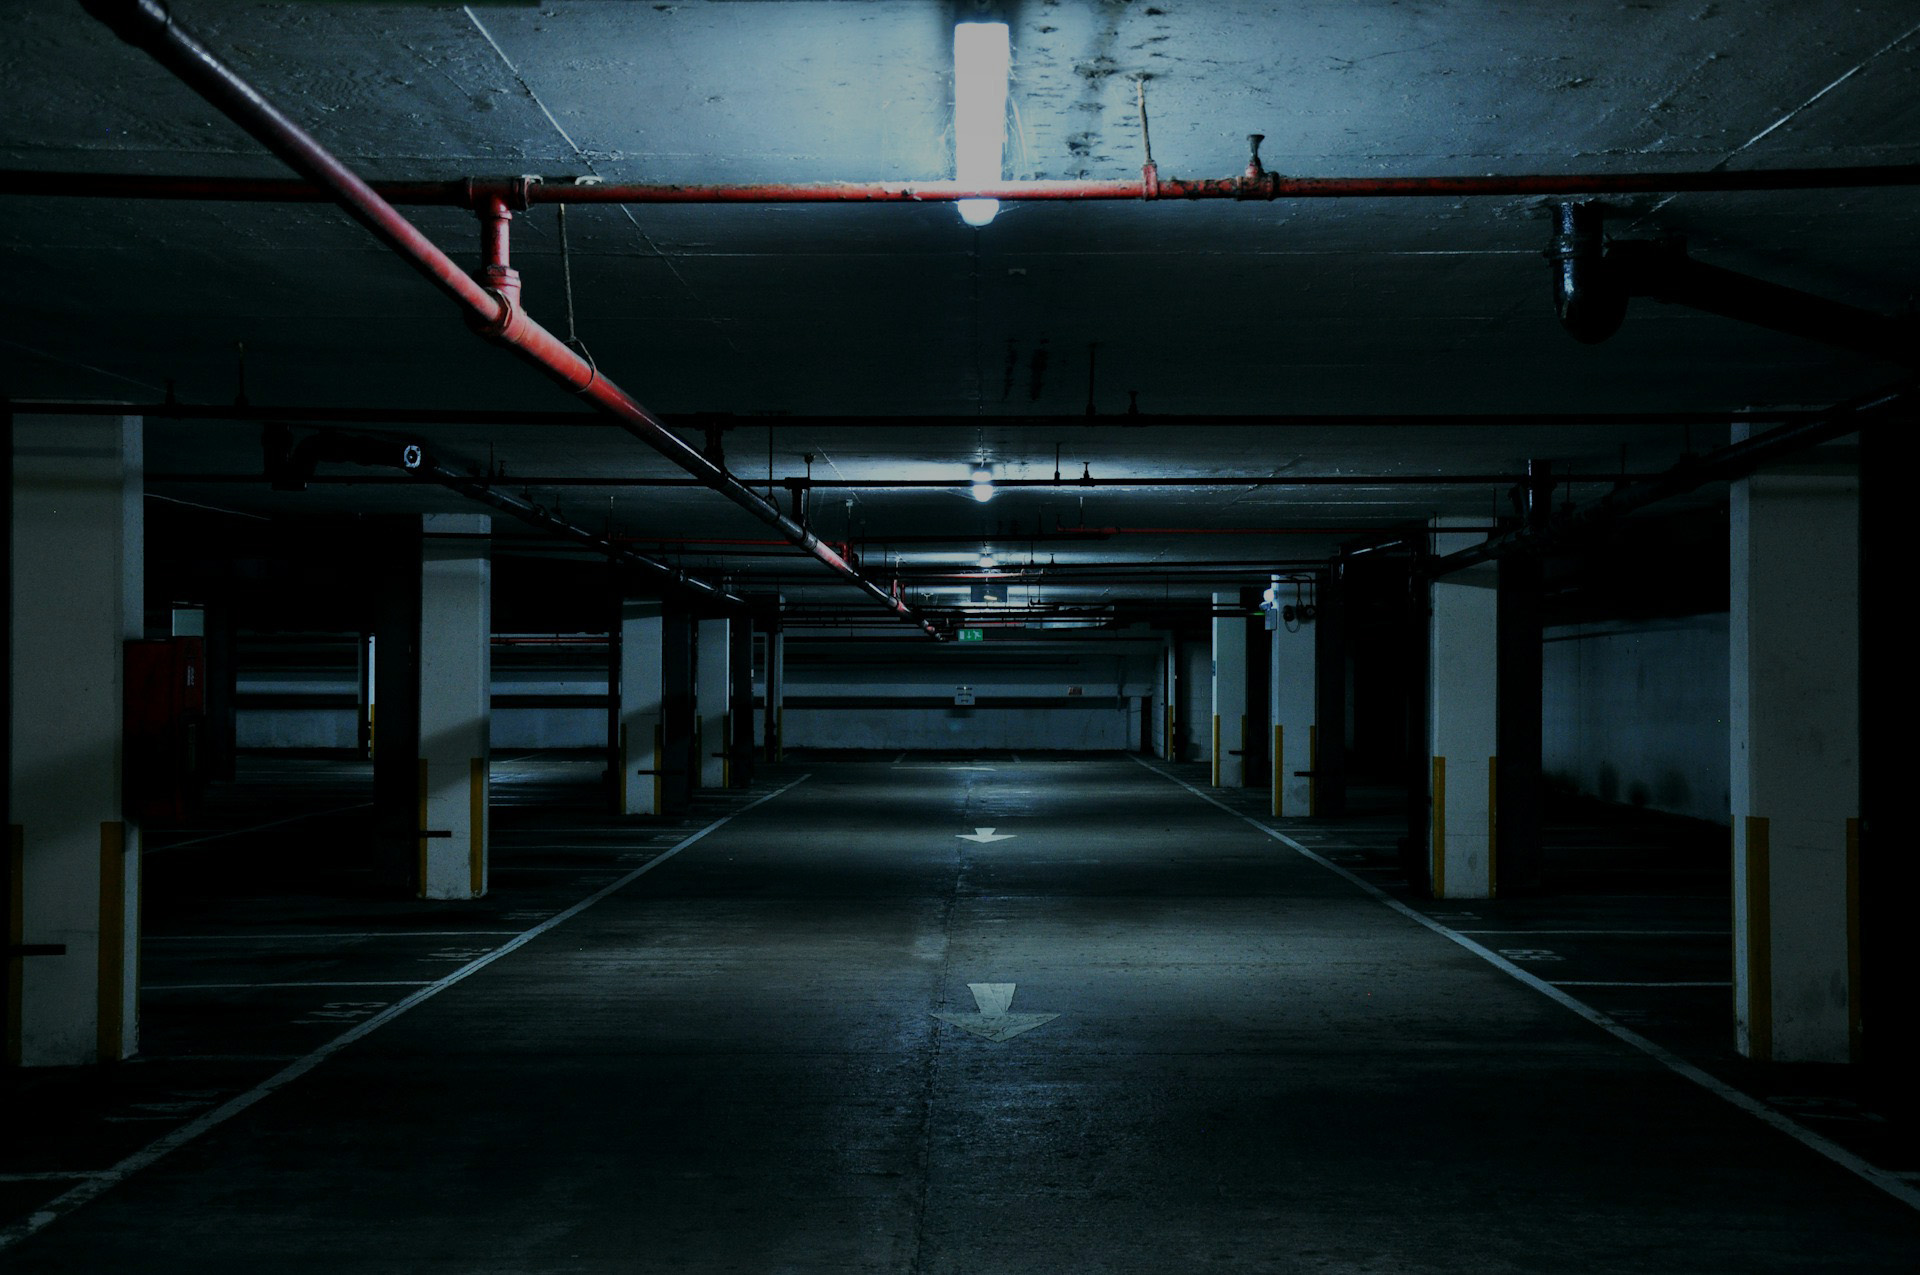
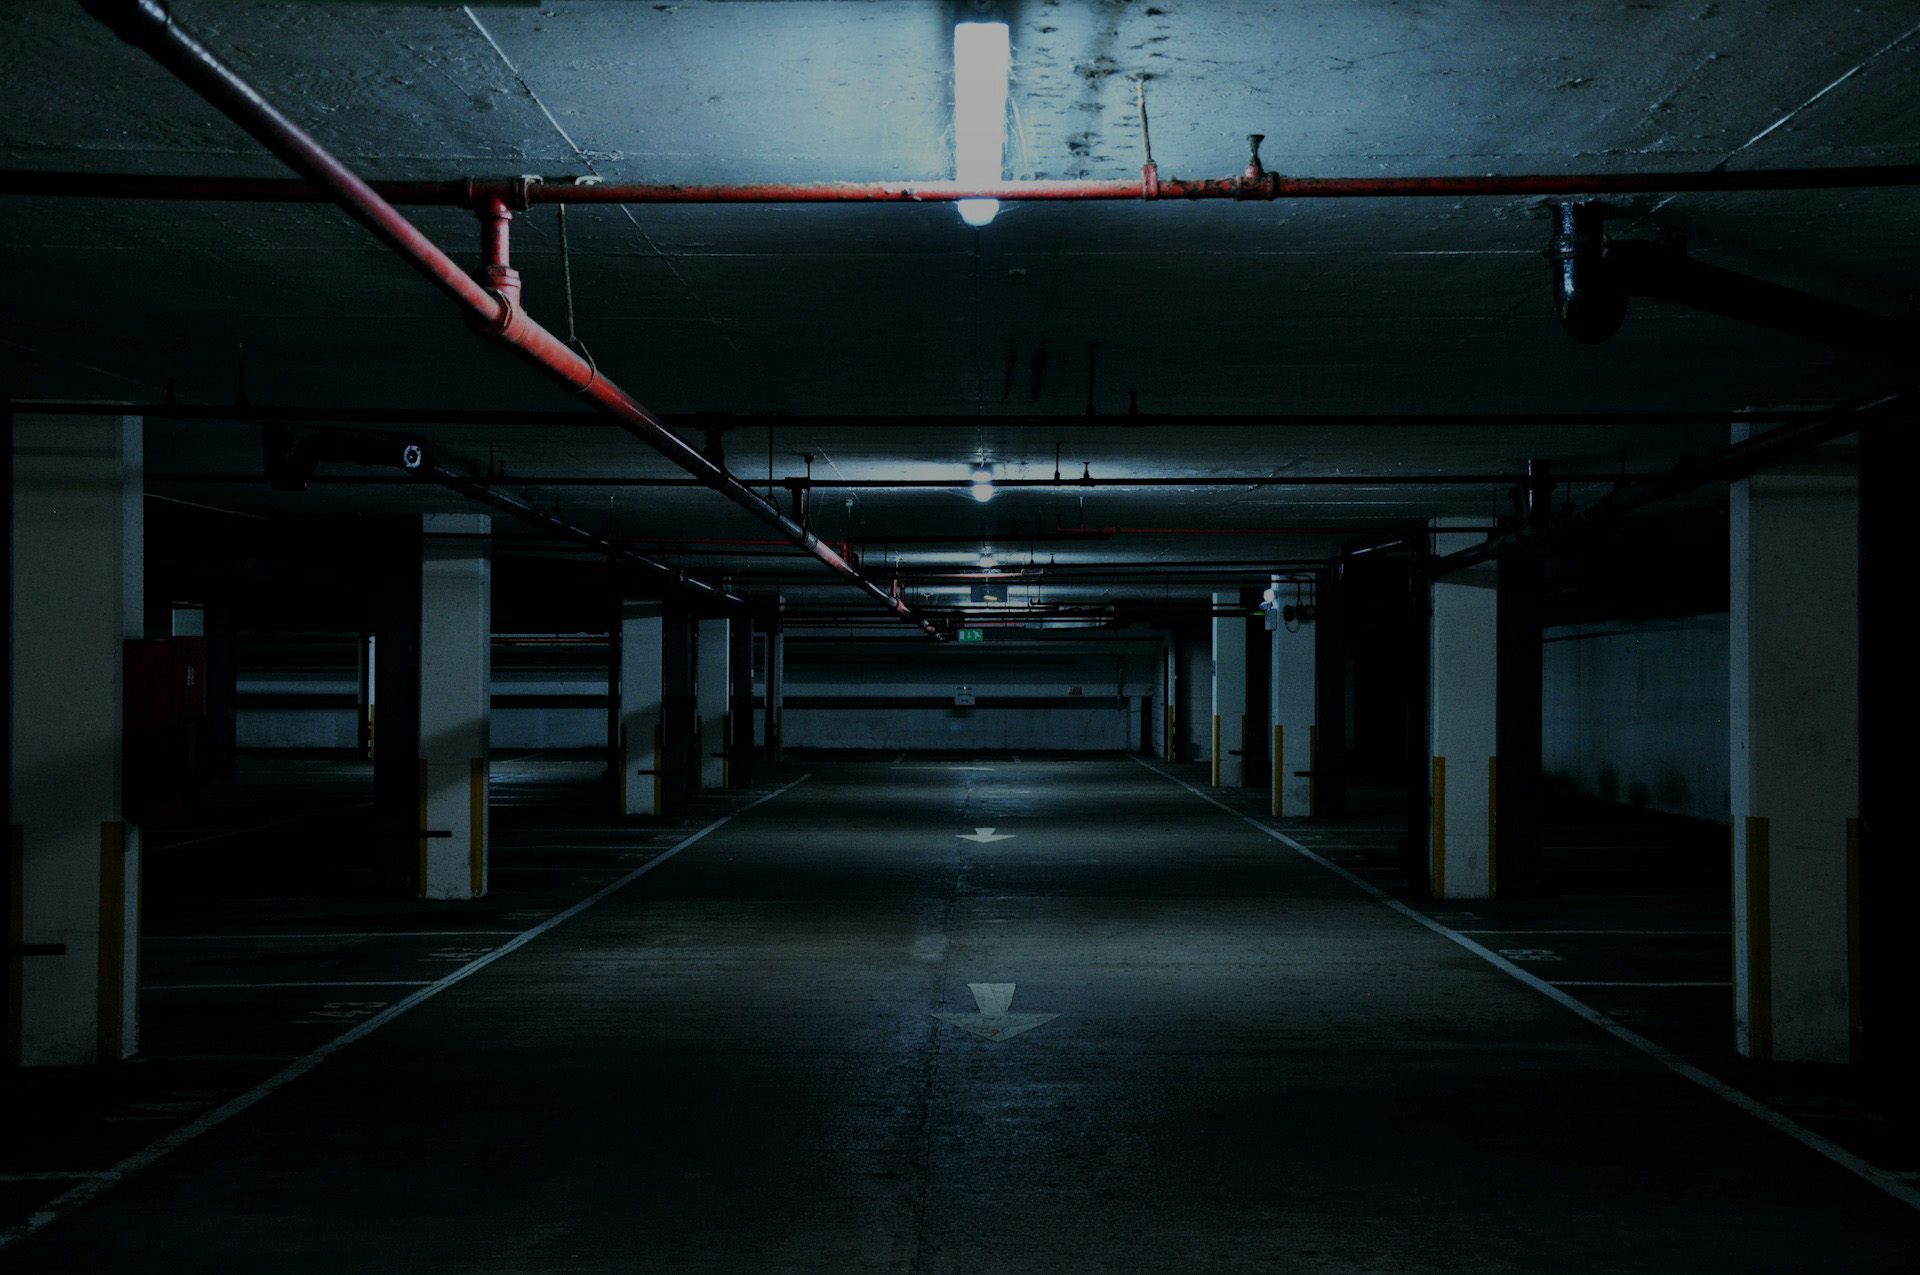
update

diff --git a/projects/photography-portfolio-site/gallery.html b/projects/photography-portfolio-site/gallery.html
@@ -51,6 +51,7 @@
                         <img src="images/urban-17c5x.jpg" alt="street">
                         <img src="images/urban-14h7y.jpg" alt="street">
                         <img src="images/urban-15r57.jpg" alt="street">
+                        <img src="images/urban-16ij4.jpg" alt="street">
                     </div>
                 </div>
             </div>

diff --git a/projects/photography-portfolio-site/css/style.css b/projects/photography-portfolio-site/css/style.css
@@ -173,6 +173,7 @@ body {
     text-align: center;
     margin: 38px;
     background-color: #111111;
+    box-shadow: inset 0px 0px 16px 4px rgb(0, 0, 0);
   
 }
 
